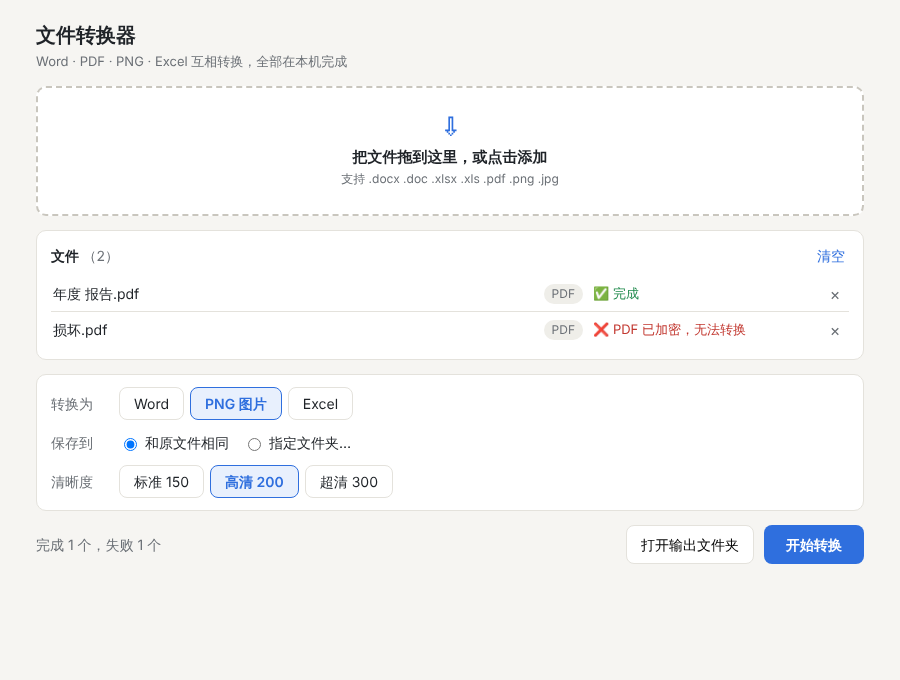
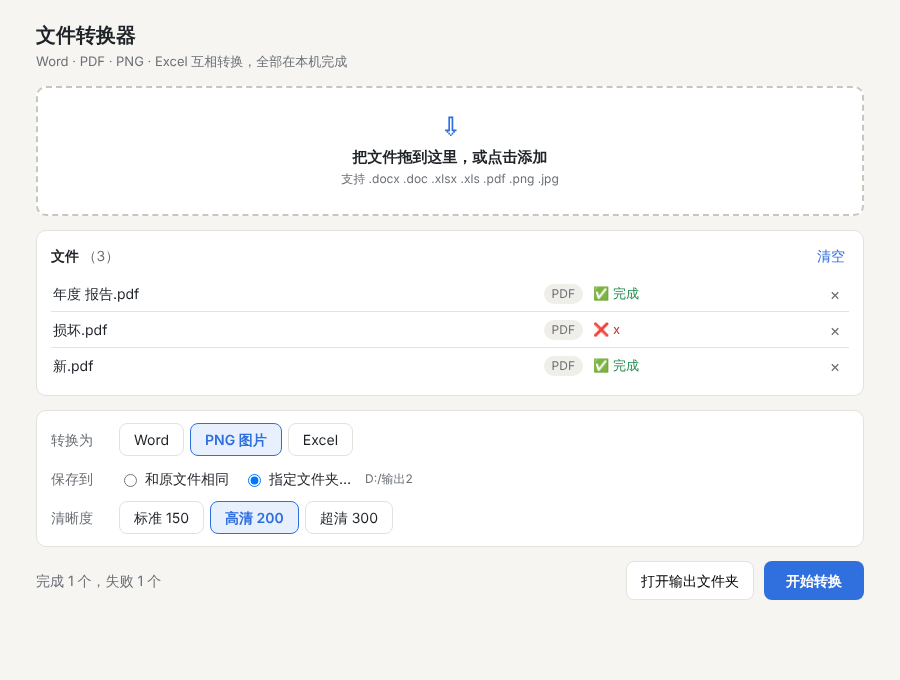
fix: 处理最终审查发现的问题
- 批次线程任何异常都会发送 finished，界面不再卡死；0 页 PDF 报错
- 日志文件真正写入（pdf2docx 抢先配置了 root logger）
- 合并图片时只标记坏图，其余照常合并
- Word/Excel 空文件或改扩展名的文件报“已损坏”，不再产出垃圾 PDF
- 再次转换跳过已完成的文件；可重新选择输出文件夹
- PDF 转 Excel 去除控制字符

Claude-Session: https://claude.ai/code/session_01K4UdGWvkGbkXbf77AY7xpn

diff --git a/app/web/app.js b/app/web/app.js
@@ -10,6 +10,7 @@
   }
 
   const valid = () => state.files.filter((f) => f.format);
+  const pending = () => valid().filter((f) => f.state !== "done");
   const allImages = () => valid().length > 0 && valid().every((f) => f.format === "image");
 
   async function refreshTargets() {
@@ -25,7 +26,9 @@
     const fresh = paths.filter((p) => !known.has(p));
     if (!fresh.length) return;
     const info = await api().describe(fresh);
-    for (const f of info) {
+    if (state.busy) return;
+    const now = new Set(state.files.map((f) => f.path));
+    for (const f of info.filter((f) => !now.has(f.path))) {
       state.files.push({ ...f, state: f.format ? "queued" : "error", message: f.format ? "" : "不支持的文件格式" });
     }
     $("summary").textContent = "";
@@ -80,7 +83,7 @@
     document.querySelectorAll("#settings input").forEach((el) => (el.disabled = state.busy));
     $("clear").disabled = state.busy;
     $("out-path").textContent = state.outDir || "";
-    $("start").disabled = state.busy || !state.target || !valid().length;
+    $("start").disabled = state.busy || !state.target || !pending().length;
     $("start").textContent = state.busy ? "转换中…" : "开始转换";
   }
 
@@ -112,18 +115,18 @@
       const b = e.target.closest("button");
       if (b) { state.dpi = Number(b.dataset.dpi); render(); }
     });
-    document.querySelectorAll('input[name="out"]').forEach((r) => r.addEventListener("change", async () => {
-      if (r.value === "custom" && r.checked) {
-        const dir = await api().pick_folder();
+    document.querySelectorAll('input[name="out"]').forEach((r) => r.addEventListener("click", async () => {
+      if (r.value === "custom") {
+        const dir = await api().pick_folder();  // 每次点击都可重新选择
         if (dir) state.outDir = dir;
-        else document.querySelector('input[name="out"][value="same"]').checked = true;
-      } else if (r.value === "same" && r.checked) {
+        if (!state.outDir) document.querySelector('input[name="out"][value="same"]').checked = true;
+      } else {
         state.outDir = null;
       }
       render();
     }));
     $("start").addEventListener("click", () => {
-      const files = valid();
+      const files = pending();  // 已完成的文件不再重复转换
       files.forEach((f) => { f.state = "queued"; f.message = ""; });
       state.running = files;
       state.busy = true;

diff --git a/app/api.py b/app/api.py
@@ -6,6 +6,7 @@ import sys
 import threading
 from pathlib import Path
 
+from .core.converters.pdf_image import check_image
 from .core.errors import ConversionError
 from .core.formats import LABELS, detect_format
 from .core.options import Options
@@ -62,47 +63,70 @@ class Api:
     def run_batch(self, paths: list[str], target: str, out_dir: str | None, options: dict) -> None:
         opts = Options.from_dict(options or {})
         out = Path(out_dir) if out_dir else None
-        ok = failed = 0
-        first_dir = None
+        self._ok = self._failed = 0
+        self._first_dir = None
+        try:
+            if target == "pdf" and opts.merge_images and paths and \
+                    all(detect_format(Path(p)) == "image" for p in paths):
+                self._run_merge(paths, out)
+            else:
+                for i, p in enumerate(paths):
+                    self._run_one(i, Path(p), target, out, opts)
+        except Exception:
+            log.exception("批次执行异常")
+        finally:
+            self._emit({"type": "finished", "ok": self._ok, "failed": self._failed,
+                        "out_dir": self._first_dir})
 
-        if target == "pdf" and opts.merge_images and paths and \
-                all(detect_format(Path(p)) == "image" for p in paths):
-            for i in range(len(paths)):
-                self._emit({"type": "status", "index": i, "state": "running"})
+    def _run_one(self, i: int, src: Path, target: str, out: Path | None, opts: Options) -> None:
+        self._emit({"type": "status", "index": i, "state": "running"})
+        try:
+            outputs = convert_file(src, target, out, opts)
+        except Exception as e:
+            self._failed += 1
+            self._emit({"type": "status", "index": i, "state": "error", "message": self._message(e)})
+            return
+        self._ok += 1
+        self._first_dir = self._first_dir or str(outputs[0].parent)
+        self._emit({"type": "status", "index": i, "state": "done",
+                    "outputs": [str(o) for o in outputs]})
+
+    def _run_merge(self, paths: list[str], out: Path | None) -> None:
+        good = []
+        for i, p in enumerate(paths):
+            self._emit({"type": "status", "index": i, "state": "running"})
             try:
-                merged = merge_images_to_pdf([Path(p) for p in paths], out)
-                states = [{"state": "done", "outputs": [str(merged)]}] * len(paths)
-                ok, first_dir = len(paths), str(merged.parent)
+                check_image(Path(p))
+                good.append(i)
             except Exception as e:
-                states = [{"state": "error", "message": self._message(e)}] * len(paths)
-                failed = len(paths)
-            for i, s in enumerate(states):
-                self._emit({"type": "status", "index": i, **s})
-        else:
-            for i, p in enumerate(paths):
-                self._emit({"type": "status", "index": i, "state": "running"})
-                try:
-                    outputs = convert_file(Path(p), target, out, opts)
-                except Exception as e:
-                    failed += 1
-                    self._emit({"type": "status", "index": i, "state": "error",
-                                "message": self._message(e)})
-                    continue
-                ok += 1
-                first_dir = first_dir or str(outputs[0].parent)
-                self._emit({"type": "status", "index": i, "state": "done",
-                            "outputs": [str(o) for o in outputs]})
-
-        self._emit({"type": "finished", "ok": ok, "failed": failed, "out_dir": first_dir})
+                self._failed += 1
+                self._emit({"type": "status", "index": i, "state": "error", "message": self._message(e)})
+        if not good:
+            return
+        try:
+            merged = merge_images_to_pdf([Path(paths[i]) for i in good], out)
+        except Exception as e:
+            self._failed += len(good)
+            for i in good:
+                self._emit({"type": "status", "index": i, "state": "error", "message": self._message(e)})
+            return
+        self._ok += len(good)
+        self._first_dir = str(merged.parent)
+        for i in good:
+            self._emit({"type": "status", "index": i, "state": "done", "outputs": [str(merged)]})
 
     @staticmethod
     def _message(e: Exception) -> str:
         if isinstance(e, ConversionError):
             return str(e)
-        log.exception("未预期的转换错误")
+        log.error("未预期的转换错误", exc_info=e)
         return f"转换失败：{type(e).__name__}"
 
     def _emit(self, event: dict) -> None:
-        if self._window is not None:
+        if self._window is None:
+            return
+        try:
             self._window.evaluate_js(
                 f"window.onBackendEvent({json.dumps(event, ensure_ascii=False)})")
+        except Exception:
+            log.exception("推送界面事件失败")

diff --git a/tools/ui_smoke.py b/tools/ui_smoke.py
@@ -13,7 +13,7 @@ window.pywebview = { api: {
   describe: async ps => ps.map(p => ({path:p, name:p.split('/').pop(), format:fmt(p), label: fmt(p)?LAB[fmt(p)]:null})),
   get_targets: async ps => { let s=null; for (const p of ps){const t=T[fmt(p)]; s = s? s.filter(x=>t.includes(x)) : t.slice();}
      return ['pdf','word','image','excel'].filter(k => (s||[]).includes(k)).map(k=>({key:k,label:LAB[k]})); },
-  pick_files: async () => [], pick_folder: async () => 'D:/输出',
+  pick_files: async () => [], pick_folder: async () => { window.__picks = (window.__picks||0)+1; return 'D:/输出' + window.__picks; },
   start: async (...a) => { window.__calls.push(a); }, open_folder: async () => {},
 }};
 """
@@ -49,6 +49,20 @@ with sync_playwright() as p:
                    window.onBackendEvent({type:'finished',ok:1,failed:1,out_dir:'C:/a'});""")
     assert "完成 1 个，失败 1 个" in pg.inner_text("#summary")
     assert pg.is_visible("#open-out") and not pg.is_disabled("#start")
+    # I-5: 再次转换只处理未完成的文件
+    pg.evaluate("window.addFiles(['C:/a/新.pdf'])"); pg.wait_for_timeout(100)
+    pg.click("#start")
+    calls = pg.evaluate("window.__calls")
+    assert calls[-1][0] == ["C:/a/损坏.pdf", "C:/a/新.pdf"], calls[-1]
+    assert "完成" in pg.inner_text("#files li:nth-child(1)")
+    pg.evaluate("window.onBackendEvent({type:'status',index:0,state:'error',message:'x'});"
+                "window.onBackendEvent({type:'status',index:1,state:'done',outputs:[]});"
+                "window.onBackendEvent({type:'finished',ok:1,failed:1,out_dir:'C:/a'})")
+    assert "❌ x" in pg.inner_text("#files li:nth-child(2)") and "完成" in pg.inner_text("#files li:nth-child(3)")
+    # M-4: 已选“指定文件夹”时再次点击可重新选择
+    pg.click('input[name="out"][value="custom"]'); pg.wait_for_timeout(100)
+    pg.click('input[name="out"][value="custom"]'); pg.wait_for_timeout(100)
+    assert pg.inner_text("#out-path") == "D:/输出2", pg.inner_text("#out-path")
     sw = pg.evaluate("document.documentElement.scrollWidth")
     assert sw <= 720, f"horizontal scroll {sw}"
     pg.set_viewport_size({"width": 900, "height": 680})

diff --git a/tests/test_api.py b/tests/test_api.py
@@ -94,3 +94,49 @@ def test_selftest_fail(monkeypatch, tmp_path):
     monkeypatch.setenv("FC_SELFTEST_LOG", str(log))
     assert main(["--selftest"]) == 1
     assert "LibreOffice" in log.read_text(encoding="utf-8")
+
+
+def test_batch_always_finishes(zero_page_pdf, sample_pdf, tmp_path):
+    api, w = make_api()
+    api.run_batch([str(zero_page_pdf), str(sample_pdf)], "image", str(tmp_path / "o"), {})
+    ev = w.events()
+    assert ev[1]["state"] == "error"
+    assert ev[-1] == {"type": "finished", "ok": 1, "failed": 1, "out_dir": str(tmp_path / "o")}
+
+
+def test_batch_finishes_when_emit_fails(monkeypatch, sample_png, tmp_path):
+    api, w = make_api()
+    real = w.evaluate_js
+    def flaky(code):
+        if '"state": "done"' in code:
+            raise RuntimeError("js error")
+        real(code)
+    w.evaluate_js = flaky
+    api.run_batch([str(sample_png)], "pdf", str(tmp_path), {})
+    assert w.events()[-1]["type"] == "finished"
+
+
+def test_merge_with_bad_image(sample_png, tmp_path):
+    bad = tmp_path / "坏.png"
+    bad.write_bytes(b"not an image")
+    out = tmp_path / "o"
+    api, w = make_api()
+    api.run_batch([str(sample_png), str(bad), str(sample_png)], "pdf", str(out), {"merge_images": True})
+    by_index = {e["index"]: e for e in w.events() if e["type"] == "status" and e["state"] != "running"}
+    assert by_index[0]["state"] == "done" and by_index[2]["state"] == "done"
+    assert by_index[1] == {"type": "status", "index": 1, "state": "error", "message": "文件已损坏或无法读取"}
+    (pdf,) = out.glob("*.pdf")
+    import pymupdf
+    assert pymupdf.open(pdf).page_count == 2
+    assert w.events()[-1]["ok"] == 2 and w.events()[-1]["failed"] == 1
+
+
+def test_log_file_written(monkeypatch, tmp_path):
+    import logging
+    from app import logging_setup
+    monkeypatch.setattr(logging_setup, "log_dir", lambda: tmp_path / "logs")
+    path = logging_setup.setup_logging()
+    Api._message(RuntimeError("boom"))
+    for h in logging.getLogger().handlers:
+        h.flush()
+    assert "boom" in path.read_text(encoding="utf-8")

diff --git a/app/core/converters/office.py b/app/core/converters/office.py
@@ -4,6 +4,7 @@ import subprocess
 import sys
 import tempfile
 import threading
+import zipfile
 from pathlib import Path
 
 from ..errors import ConversionError
@@ -35,9 +36,34 @@ def find_soffice() -> Path | None:
     return next((p for p in candidates if p.is_file()), None)
 
 
+OLE_MAGIC = b"\xd0\xcf\x11\xe0\xa1\xb1\x1a\xe1"
+
+
+def _check_office_file(src: Path) -> None:
+    """在交给 LibreOffice 前排除空文件和改了扩展名的文件（否则会“成功”产出垃圾 PDF）。"""
+    try:
+        size = src.stat().st_size
+        with open(src, "rb") as f:
+            head = f.read(8)
+    except OSError as e:
+        raise ConversionError("文件已损坏或无法读取") from e
+    ext = src.suffix.lower()
+    if size == 0:
+        ok = False
+    elif ext in (".docx", ".xlsx"):
+        ok = zipfile.is_zipfile(src)
+    elif ext == ".doc":  # Word 也会把 RTF/HTML 存成 .doc
+        ok = head == OLE_MAGIC or head.startswith(b"{\\rtf") or head.lstrip().lower().startswith(b"<")
+    else:  # .xls
+        ok = head == OLE_MAGIC or head.lstrip().lower().startswith(b"<")
+    if not ok:
+        raise ConversionError("文件已损坏或无法读取")
+
+
 @register("word", "pdf")
 @register("excel", "pdf")
 def office_to_pdf(src: Path, out_dir: Path, opts: Options) -> list[Path]:
+    _check_office_file(src)
     soffice = find_soffice()
     if soffice is None:
         raise ConversionError("未找到 LibreOffice 组件，请重新解压完整的软件包")

diff --git a/tests/test_office.py b/tests/test_office.py
@@ -48,3 +48,22 @@ def test_bundled_preferred(monkeypatch, tmp_path):
     exe.touch()
     monkeypatch.setattr(office, "app_dir", lambda: tmp_path)
     assert find_soffice() == exe
+
+
+@pytest.mark.parametrize("name,data", [
+    ("空.docx", b""), ("文本.docx", "这是文本".encode()), ("文本.xlsx", b"plain text"),
+    ("文本.doc", b"plain text"), ("空.xls", b""),
+])
+def test_disguised_office_rejected(tmp_path, name, data):
+    f = tmp_path / name
+    f.write_bytes(data)
+    with pytest.raises(ConversionError, match="已损坏"):
+        office_to_pdf(f, tmp_path / "o", Options())
+
+
+def test_legacy_doc_magic_accepted(monkeypatch, tmp_path):
+    f = tmp_path / "旧.doc"
+    f.write_bytes(b"\xd0\xcf\x11\xe0\xa1\xb1\x1a\xe1" + b"\x00" * 100)
+    monkeypatch.setattr(office, "find_soffice", lambda: None)
+    with pytest.raises(ConversionError, match="未找到 LibreOffice"):  # 通过了预检，才走到查找 soffice
+        office_to_pdf(f, tmp_path / "o", Options())

diff --git a/app/core/converters/pdf_excel.py b/app/core/converters/pdf_excel.py
@@ -1,12 +1,18 @@
 from pathlib import Path
 
 import openpyxl
+from openpyxl.cell.cell import ILLEGAL_CHARACTERS_RE
 import pdfplumber
 
 from ..errors import ConversionError
 from ..options import Options
 from ..registry import register
 from .pdf_image import open_pdf
+
+
+def clean_cell(value):
+    """去掉 Excel 不允许的控制字符。"""
+    return ILLEGAL_CHARACTERS_RE.sub("", value) if isinstance(value, str) else value
 
 
 @register("pdf", "excel")
@@ -24,7 +30,7 @@ def pdf_to_excel(src: Path, out_dir: Path, opts: Options) -> list[Path]:
                 if t:
                     ws.append([])  # 同页多表之间空一行
                 for row in table:
-                    ws.append(row)
+                    ws.append([clean_cell(v) for v in row])
     if not wb.sheetnames:
         raise ConversionError("PDF 中未找到表格")
     out_dir.mkdir(parents=True, exist_ok=True)

diff --git a/app/core/pipeline.py b/app/core/pipeline.py
@@ -21,12 +21,14 @@ def convert_file(src: Path, target: str, out_dir: Path | None, opts: Options) ->
         raise ConversionError("不支持转换为该格式")
     out_dir = Path(out_dir) if out_dir else src.parent
 
-    with tempfile.TemporaryDirectory(prefix="fc_") as tmp:
+    with tempfile.TemporaryDirectory(prefix="fc_", ignore_cleanup_errors=True) as tmp:
         current = [src]
         for step, (_, _, convert) in enumerate(route):
             step_dir = Path(tmp) / f"step{step}"
             current = [out for f in current for out in convert(f, step_dir, opts)]
 
+        if not current:
+            raise ConversionError("文件中没有任何页面")
         out_dir.mkdir(parents=True, exist_ok=True)
         ext = OUTPUT_EXT[target]
         if len(current) == 1:

diff --git a/tests/conftest.py b/tests/conftest.py
@@ -98,3 +98,15 @@ def corrupt_pdf(tmp_path) -> Path:
     path = tmp_path / "损坏.pdf"
     path.write_bytes(b"not a pdf")
     return path
+
+
+@pytest.fixture
+def zero_page_pdf(tmp_path) -> Path:
+    body = (b"%PDF-1.4\n1 0 obj<</Type/Catalog/Pages 2 0 R>>endobj\n"
+            b"2 0 obj<</Type/Pages/Kids[]/Count 0>>endobj\n")
+    xref_pos = len(body)
+    data = body + (b"xref\n0 3\n0000000000 65535 f \n0000000009 00000 n \n0000000052 00000 n \n"
+                   b"trailer<</Size 3/Root 1 0 R>>\nstartxref\n" + str(xref_pos).encode() + b"\n%%EOF\n")
+    path = tmp_path / "零页.pdf"
+    path.write_bytes(data)
+    return path

diff --git a/app/logging_setup.py b/app/logging_setup.py
@@ -18,7 +18,7 @@ def setup_logging() -> Path:
     path = log_dir() / "app.log"
     path.parent.mkdir(parents=True, exist_ok=True)
     logging.basicConfig(
-        filename=path, encoding="utf-8", level=logging.INFO,
+        filename=path, encoding="utf-8", level=logging.INFO, force=True,  # pdf2docx 导入时已配置过 root logger
         format="%(asctime)s %(levelname)s %(name)s: %(message)s",
     )
     return path

diff --git a/tests/test_pdf_excel.py b/tests/test_pdf_excel.py
@@ -21,3 +21,9 @@ def test_pdf_to_excel_no_tables(sample_pdf, tmp_path):
 def test_pdf_to_excel_corrupt(corrupt_pdf, tmp_path):
     with pytest.raises(ConversionError, match="已损坏"):
         pdf_to_excel(corrupt_pdf, tmp_path, Options())
+
+
+def test_clean_cell_strips_control_chars():
+    from app.core.converters.pdf_excel import clean_cell
+    assert clean_cell("a\x07b") == "ab"
+    assert clean_cell(None) is None

diff --git a/tests/test_pipeline.py b/tests/test_pipeline.py
@@ -53,3 +53,8 @@ def test_merge_images(sample_png, tmp_path):
 def test_two_hop_docx_to_png(sample_docx, tmp_path):
     out = convert_file(sample_docx, "image", tmp_path / "o", Options())
     assert [p.name for p in out] == ["中文 样例.png"]
+
+
+def test_zero_page_pdf_raises(zero_page_pdf, tmp_path):
+    with pytest.raises(ConversionError):
+        convert_file(zero_page_pdf, "image", tmp_path / "o", Options())
